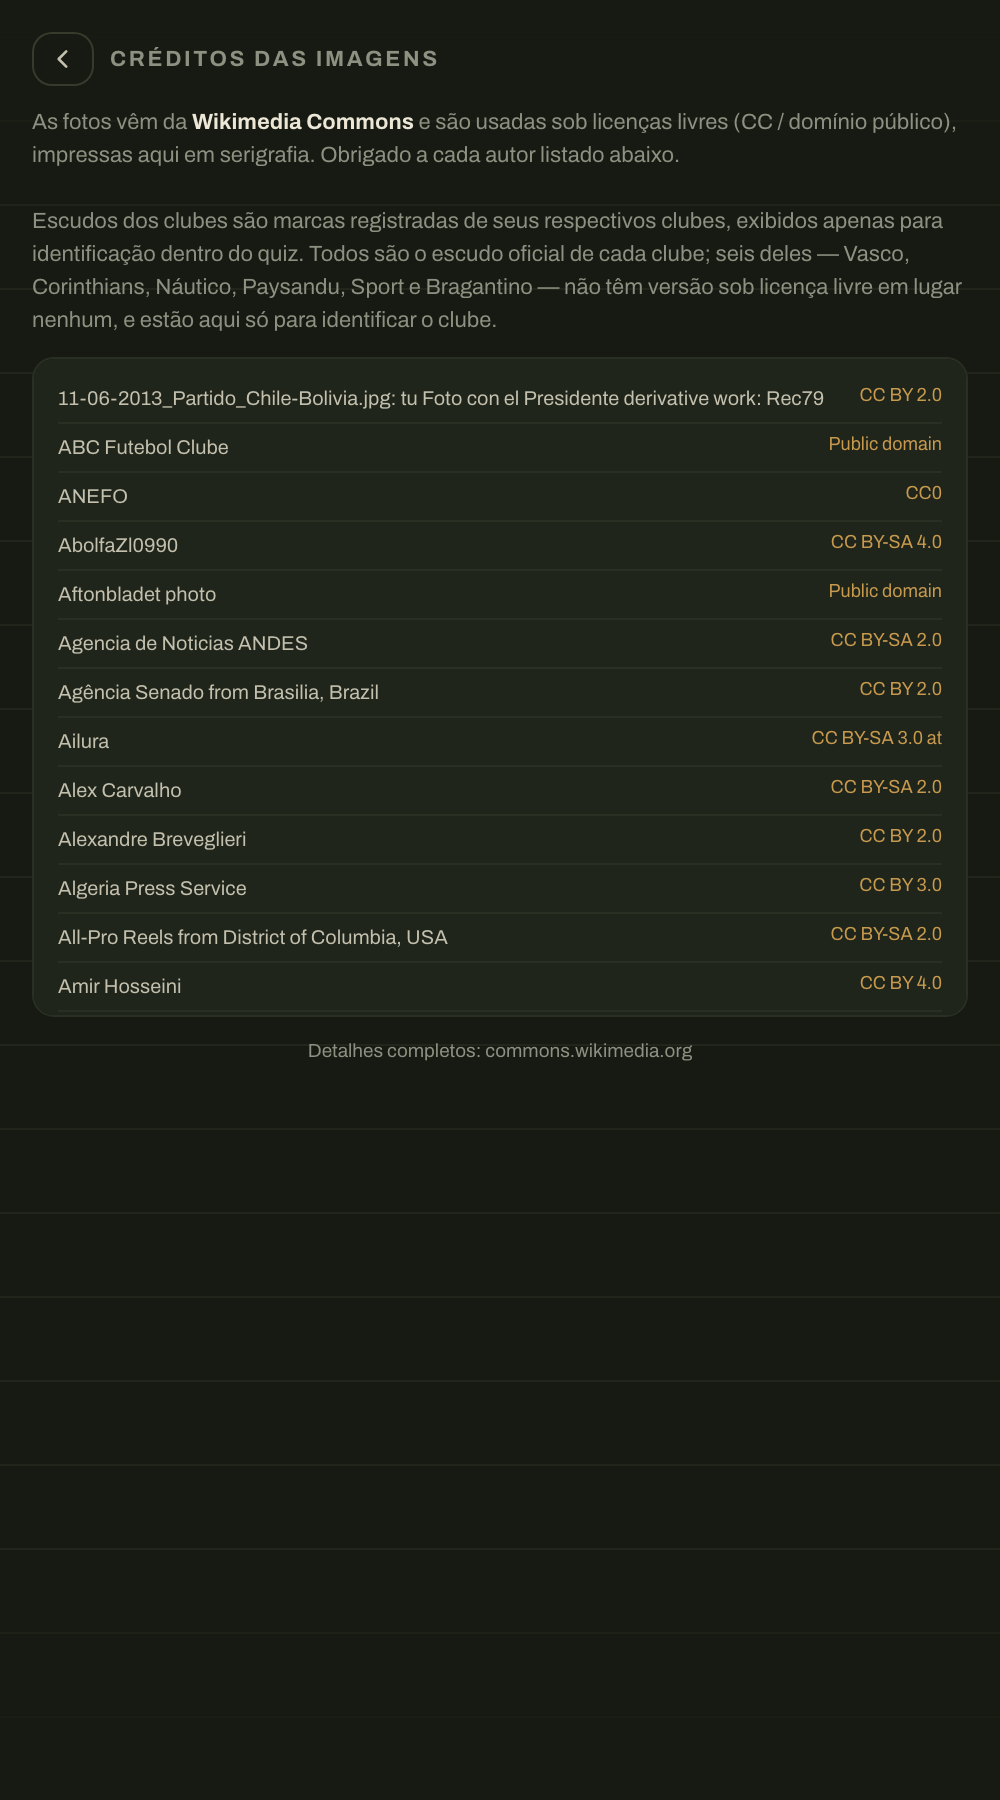
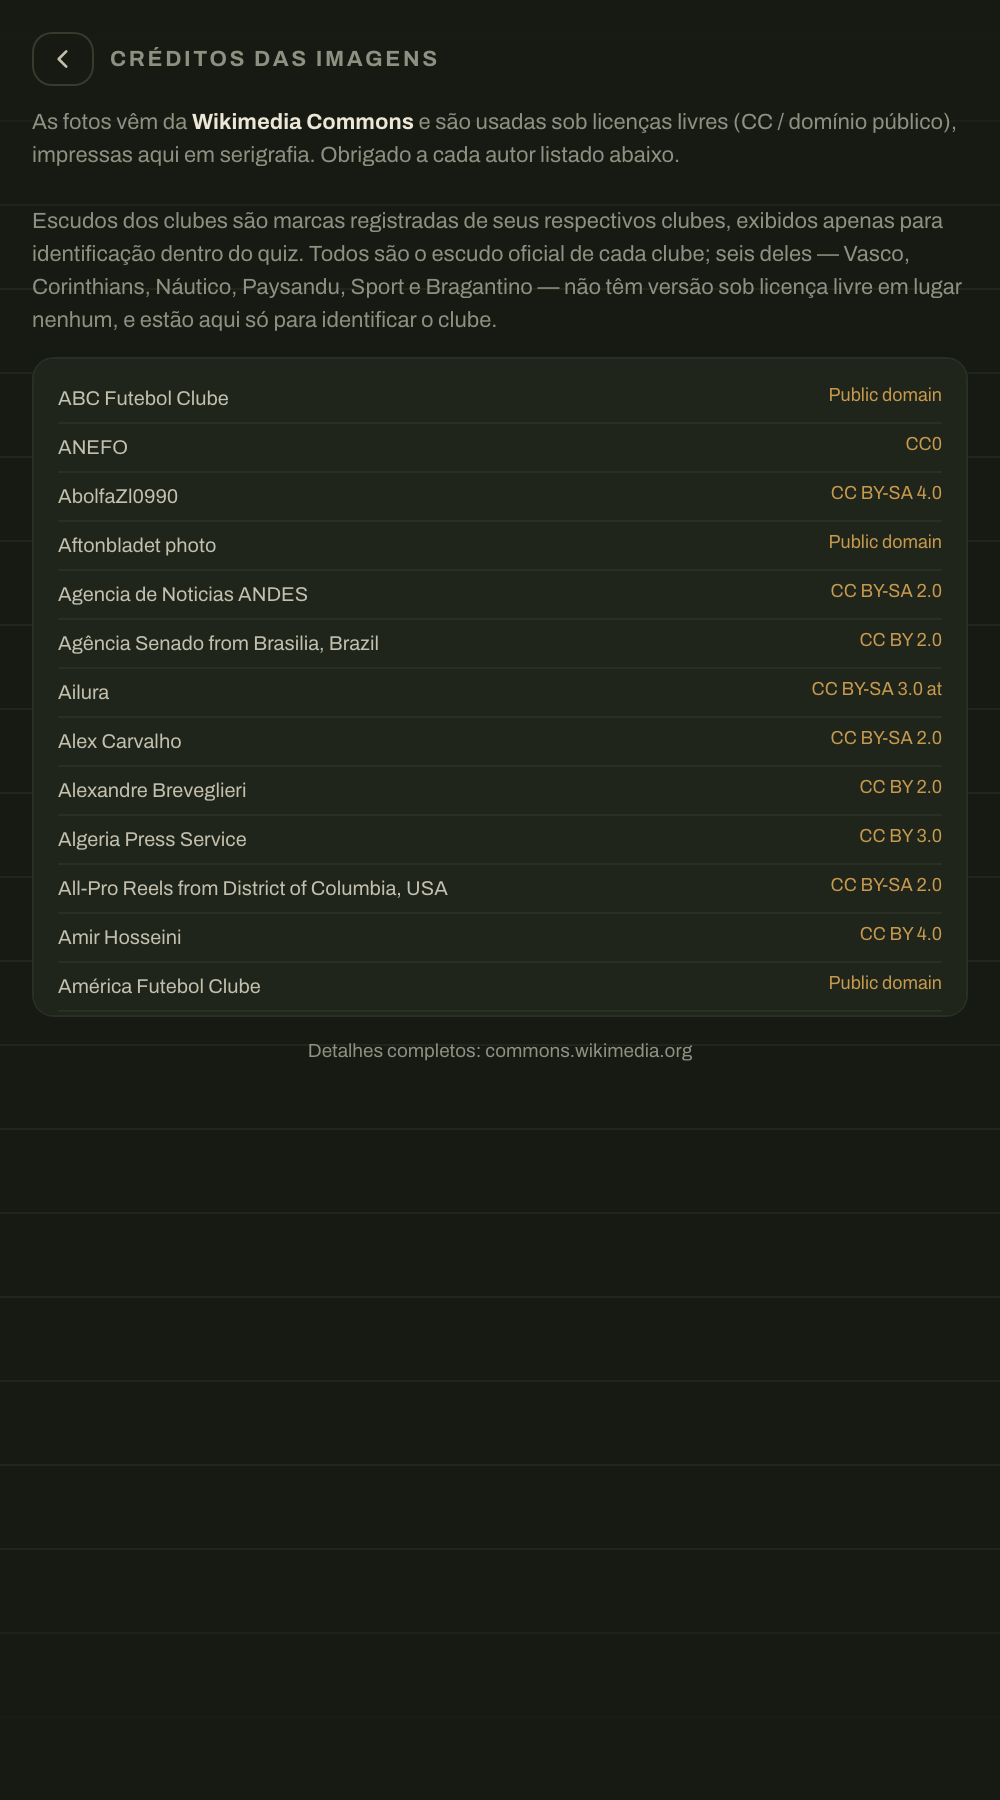
Tidy the credits so it reads as a list of people
Wikimedia's Artist field carries whatever the uploader typed, and 39 of
the 308 rows were not names: raw derivative-work chains
("Pelé_en_La_Moneda.jpg: tu Foto con el Presidente derivative work:
Rec79"), the doubled "Unknown authorUnknown author" placeholder, and
archive citations with the shelf-mark attached.

They are normalised now — "X / Y" for a derivative, "Autor desconhecido"
for the placeholder, the institution kept and the shelf-mark dropped.
Nothing is removed: every author who was credited is still credited, in a
form a reader can actually act on. index.html and data/credits.json stay
in step.

Claude-Session: https://claude.ai/code/session_01AeDN92YGYdCLcJmAVMuuVY

diff --git a/index.html b/index.html
@@ -2972,7 +2972,7 @@ const CREDITS = {
   'img/74376336e55dce35.jpg': { a:'Bryan Berlin', l:'CC BY-SA 4.0' },
   'img/8913cf3c11ef1543.jpg': { a:'RicardoGuedesP', l:'CC BY-SA 4.0' },
   'img/ab830b343129eab8.jpg': { a:'Cláudio Ptolomeu', l:'CC0' },
-  'img/510728faf6f3403c.jpg': { a:'Original: Werner100359 / Derivative work: Danyele', l:'CC BY-SA 4.0' },
+  'img/510728faf6f3403c.jpg': { a:'Werner100359 / / Danyele', l:'CC BY-SA 4.0' },
   'img/04d0915057394a2d.jpg': { a:'Multishow', l:'CC BY 4.0' },
   'img/a2550621b4d2069f.jpg': { a:'Krone Sport', l:'CC BY 3.0' },
   'img/05e97d13cedb6d4d.jpg': { a:'YantsImages', l:'CC BY-SA 4.0' },
@@ -3000,12 +3000,12 @@ const CREDITS = {
   'img/3003f941ce111ded.jpg': { a:'Agencia de Noticias ANDES', l:'CC BY-SA 2.0' },
   'img/58950ff0afd5d95b.jpg': { a:'Longbomb', l:'Public domain' },
   'img/91a4fe6ff67ac4e2.jpg': { a:'Aftonbladet photo', l:'Public domain' },
-  'img/15085c4eb23cdf4f.jpg': { a:'Unknown authorUnknown author', l:'Public domain' },
+  'img/15085c4eb23cdf4f.jpg': { a:'Autor desconhecido', l:'Public domain' },
   'img/c33fd612ea21fbe1.jpg': { a:'Panini', l:'Public domain' },
-  'img/c1eeb576e2f6a7d6.jpg': { a:'Unknown authorUnknown author', l:'Public domain' },
+  'img/c1eeb576e2f6a7d6.jpg': { a:'Autor desconhecido', l:'Public domain' },
   /* retratos das páginas antigas */
   'img/54b6ca0aec7b9579.jpg': { a:'Christophe95', l:'CC BY-SA 3.0' },
-  'img/162ebbd1b7ce35a2.jpg': { a:'Unknown authorUnknown author', l:'Public domain' },
+  'img/162ebbd1b7ce35a2.jpg': { a:'Autor desconhecido', l:'Public domain' },
   'img/1269aa2261eb5d2f.jpg': { a:'Panini', l:'Public domain' },
   'img/8234d8678f486ad6.jpg': { a:'Christophe95', l:'CC BY-SA 3.0' },
   'img/628dbf281163c65a.jpg': { a:'UnknownUnknown', l:'Public domain' },
@@ -3013,25 +3013,25 @@ const CREDITS = {
   'img/c4b7e5e76f94e2cc.jpg': { a:'Bert Verhoeff for Anefo , NL-HaNA, ANEFO / neg. stroken, 1945-1989', l:'CC0' },
   'img/2c733543b972744a.jpg': { a:'Илья Хохлов', l:'CC BY-SA 3.0' },
   'img/883b6264f6ff5188.jpg': { a:'Roger Gor', l:'CC BY 3.0' },
-  'img/73fcbf1ced010652.jpg': { a:'Unknown authorUnknown author', l:'Public domain' },
+  'img/73fcbf1ced010652.jpg': { a:'Autor desconhecido', l:'Public domain' },
   'img/4fe96f928a31738f.jpg': { a:'utente:Lucio8990', l:'Public domain' },
   'img/cea4d8233587db89.jpg': { a:'Tales.ebner', l:'Public domain' },
   'img/c4db925adc8f3bd8.jpg': { a:'Prensa TV Pública', l:'CC BY 2.0' },
   'img/c6a6975ab66f934b.jpg': { a:'Palácio do Planalto from Brasilia, Brasil', l:'CC BY 2.0' },
-  'img/62b43f2e15939e95.jpg': { a:'Unknown authorUnknown author', l:'Public domain' },
-  'img/98e30327cff2b74f.jpg': { a:'Unknown authorUnknown author', l:'Public domain' },
+  'img/62b43f2e15939e95.jpg': { a:'Autor desconhecido', l:'Public domain' },
+  'img/98e30327cff2b74f.jpg': { a:'Autor desconhecido', l:'Public domain' },
   'img/d245562ac7455ba9.jpg': { a:'Saw from Singapore', l:'CC BY-SA 2.0' },
   'img/9b1a8681cfb39b14.jpg': { a:'Elena Rybakova', l:'CC BY-SA 3.0' },
-  'img/f7e3042a0214f4db.jpg': { a:'Eric Koch for Anefo Nationaal Archief, Den Haag, Rijksfotoarchief: Fotocollectie Algemeen Nederlands Fotopersbureau (ANEFO), 1945-1989 - negatiefstroken zwart/wit, nummer toegang 2.24.01.05, bestanddeelnummer 923-4328', l:'CC BY-SA 3.0 nl' },
+  'img/f7e3042a0214f4db.jpg': { a:'Eric Koch for Anefo Nationaal Archief, Den Haag', l:'CC BY-SA 3.0 nl' },
   'img/1eef9a90a6df5b58.jpg': { a:'Fabio Rodrigues Pozzebom', l:'CC BY 3.0 br' },
   'img/39aa5ba33c1a180b.jpg': { a:'Unspecified', l:'Public domain' },
   'img/86ae5d35eb96929e.jpg': { a:'Galo Na Veia from Brasil', l:'Public domain' },
-  'img/56611cbacf2d57d9.jpg': { a:'Unknown authorUnknown author', l:'Public domain' },
-  'img/d72738fbc933d877.jpg': { a:'Pelé_en_La_Moneda.jpg: tu Foto con el Presidente derivative work: Rec79 (talk)', l:'CC BY 2.0' },
+  'img/56611cbacf2d57d9.jpg': { a:'Autor desconhecido', l:'Public domain' },
+  'img/d72738fbc933d877.jpg': { a:'tu Foto con el Presidente / Rec79', l:'CC BY 2.0' },
   'img/f66954b520e42c01.jpg': { a:'Christophe95', l:'CC BY-SA 3.0' },
   'img/caf2e500509e3d5e.jpg': { a:'Magnussen, Friedrich (1914-1987)', l:'CC BY-SA 3.0 de' },
-  'img/aeb72fb932be5a0d.jpg': { a:'Unknown authorUnknown author', l:'CC BY-SA 3.0 nl' },
-  'img/f8e326cd2856d08e.jpg': { a:'Unknown authorUnknown author', l:'Public domain' },
+  'img/aeb72fb932be5a0d.jpg': { a:'Autor desconhecido', l:'CC BY-SA 3.0 nl' },
+  'img/f8e326cd2856d08e.jpg': { a:'Autor desconhecido', l:'Public domain' },
   'img/bb57a46b0718c4e0.jpg': { a:'Jack de Nijs for Anefo / Anefo', l:'CC BY-SA 3.0 nl' },
   'img/791371b847f2baf4.jpg': { a:'Barcex', l:'CC BY-SA 4.0' },
   'img/359bf2910777290e.jpg': { a:'Nuță Lucian from Cluj-Napoca, Romania', l:'CC BY-SA 2.0' },
@@ -3040,19 +3040,19 @@ const CREDITS = {
   'img/1e330c509141eea9.jpg': { a:'Isolinamajul', l:'Public domain' },
   'img/c8d47a3e591d0cfa.jpg': { a:'Republic of Korea', l:'CC BY-SA 2.0' },
   'img/93d9b1811058ec08.jpg': { a:'Christophe95', l:'CC BY-SA 3.0' },
-  'img/a088e1694438876c.jpg': { a:'Unknown authorUnknown author', l:'Public domain' },
-  'img/585091556671d2a0.jpg': { a:'Original: Chensiyuan / Derivative work: Danyele', l:'CC BY-SA 4.0' },
+  'img/a088e1694438876c.jpg': { a:'Autor desconhecido', l:'Public domain' },
+  'img/585091556671d2a0.jpg': { a:'Chensiyuan / / Danyele', l:'CC BY-SA 4.0' },
   'img/a417217bfbfc836c.jpg': { a:'Irish Defence Forces from Ireland', l:'CC BY 2.0' },
   'img/a6723e968a030759.jpg': { a:'Bryan Berlin', l:'CC BY-SA 4.0' },
   'img/7a0f065590a5d112.jpg': { a:'Fortepan/Faragó György', l:'CC BY-SA 3.0' },
-  'img/32b5426eefa28318.jpg': { a:'Unknown authorUnknown author', l:'Public domain' },
+  'img/32b5426eefa28318.jpg': { a:'Autor desconhecido', l:'Public domain' },
   'img/f7f34ea069436dc1.jpg': { a:'Christophe95', l:'CC BY-SA 3.0' },
-  'img/e213bc3d3c947529.jpg': { a:'Nationaal Archief, Den Haag, Rijksfotoarchief: Fotocollectie Algemeen Nederlands Fotopersbureau (ANEFO), 1945-1989 - negatiefstroken zwart/wit, nummer toegang 2.24.01.05, bestanddeelnummer 906-0012', l:'CC BY-SA 3.0 nl' },
+  'img/e213bc3d3c947529.jpg': { a:'Nationaal Archief, Den Haag', l:'CC BY-SA 3.0 nl' },
   'img/136f515c1037e98b.jpg': { a:'Rob Bogaerts for Anefo', l:'CC0' },
   'img/bb36f5000c3f46c5.jpg': { a:'Danny Molyneux', l:'CC BY 2.0' },
-  'img/329d1f766658da65.jpg': { a:'Unknown authorUnknown author', l:'Public domain' },
+  'img/329d1f766658da65.jpg': { a:'Autor desconhecido', l:'Public domain' },
   'img/7d25dd8bdc2738f5.jpg': { a:'Unknown photographer', l:'Public domain' },
-  'img/4ecd9957b82a2a73.jpg': { a:'Unknown authorUnknown author', l:'Public domain' },
+  'img/4ecd9957b82a2a73.jpg': { a:'Autor desconhecido', l:'Public domain' },
   'img/5c405fe41d0795af.jpg': { a:'Algeria Press Service', l:'CC BY 3.0' },
   'img/2b4e45b260f827fc.jpg': { a:'Bryan Berlin', l:'CC BY-SA 4.0' },
   'img/b024ff25a51be288.jpg': { a:'Rainer Mittelstädt', l:'CC BY-SA 3.0 de' },
@@ -3060,36 +3060,36 @@ const CREDITS = {
   'img/59e0f3ddd8922b91.jpg': { a:'Steffen Prößdorf', l:'CC BY-SA 4.0' },
   'img/4f96eecd9e14984a.jpg': { a:'Edizioni Astra, Milano (chiusura 1986)', l:'Public domain' },
   'img/f83d090546ab384b.jpg': { a:'Refivagert', l:'CC BY-SA 4.0' },
-  'img/4f1c478f5174a790.jpg': { a:'Unknown authorUnknown author', l:'Public domain' },
+  'img/4f1c478f5174a790.jpg': { a:'Autor desconhecido', l:'Public domain' },
   'img/91b807bba0869302.jpg': { a:'Jmex60', l:'CC BY-SA 3.0' },
-  'img/fede689e7ef6e837.jpg': { a:'Unknown authorUnknown author', l:'Public domain' },
+  'img/fede689e7ef6e837.jpg': { a:'Autor desconhecido', l:'Public domain' },
   'img/7c19b6d3c4b0cc13.jpg': { a:'norio nakayama', l:'CC BY-SA 2.0' },
-  'img/1a9a0996e8a52fd5.jpg': { a:'Unknown authorUnknown author', l:'Public domain' },
-  'img/cf80ccb7934c30ad.jpg': { a:'Unknown authorUnknown author', l:'Public domain' },
+  'img/1a9a0996e8a52fd5.jpg': { a:'Autor desconhecido', l:'Public domain' },
+  'img/cf80ccb7934c30ad.jpg': { a:'Autor desconhecido', l:'Public domain' },
   'img/5c83259d8ad8b222.jpg': { a:'Кирилл Венедиктов', l:'CC BY-SA 3.0' },
   'img/9bfa6fcfb1422bf3.jpg': { a:'David Sedlecký', l:'CC BY-SA 4.0' },
-  'img/bc4bb3d6981c73e4.jpg': { a:'Unknown authorUnknown author', l:'Public domain' },
+  'img/bc4bb3d6981c73e4.jpg': { a:'Autor desconhecido', l:'Public domain' },
   'img/ffdab5ca8b178355.jpg': { a:'Fabio Rodrigues Pozzebom', l:'CC BY 3.0 br' },
-  'img/aae32645774db989.jpg': { a:'Rai_em_2009.jpg: Elza Fiúza/ABr derivative work: Yanguas', l:'CC BY 3.0 br' },
+  'img/aae32645774db989.jpg': { a:'Elza Fiúza/ABr / Yanguas', l:'CC BY 3.0 br' },
   'img/23d6fd9b566223d9.jpg': { a:'Galo Na Veia from Brasil', l:'Public domain' },
   'img/cff16530f8fa4e0f.jpg': { a:'TVE RS / TV Grenal', l:'CC BY-SA 4.0' },
-  'img/9d580a4365114dcd.jpg': { a:'Hans Peters for Anefo , Nationaal Archief, Den Haag, Rijksfotoarchief: Fotocollectie Algemeen Nederlands Fotopersbureau (ANEFO), 1945-1989 - negatiefstroken zwart/wit, nummer toegang 2.24.01.06, bestanddeelnummer 253-8025', l:'CC0' },
+  'img/9d580a4365114dcd.jpg': { a:'Hans Peters for Anefo , Nationaal Archief, Den Haag', l:'CC0' },
   'img/891afdd0cd344afe.jpg': { a:'NASA', l:'Public domain' },
   'img/91695b91ca28ecd3.jpg': { a:'Italian House of Representatives', l:'CC BY-SA 3.0' },
   'img/aded84a7f9b4750b.jpg': { a:'The original uploader was Snake90 at Italian Wikipedia.', l:'Public domain' },
   'img/e8890f43a185d1f2.jpg': { a:'Michael Lucan', l:'CC BY-SA 3.0 de' },
   'img/c793c44643d6d9fe.jpg': { a:'The original uploader was Freddyballo at Italian Wikipedia.', l:'Public domain' },
-  'img/75dbccb8faa7b800.jpg': { a:'Unknown authorUnknown author', l:'Public domain' },
+  'img/75dbccb8faa7b800.jpg': { a:'Autor desconhecido', l:'Public domain' },
   'img/d6a883cf7fbaef12.jpg': { a:'Joop van Bilsen for Anefo', l:'CC0' },
   'img/eeb9d84ba15b1447.jpg': { a:'El Gráfico', l:'Public domain' },
   'img/e1672ea777d20d55.jpg': { a:'Ujishadow', l:'CC BY-SA 4.0' },
   'img/69bdb9f9781c2e8c.jpg': { a:'Biser Todorov', l:'CC BY-SA 4.0' },
   'img/ccf5e2c28ed6f8de.jpg': { a:'Panini', l:'Public domain' },
-  'img/4050315cc5e986c9.jpg': { a:'11-06-2013_Partido_Chile-Bolivia.jpg: tu Foto con el Presidente derivative work: Rec79', l:'CC BY 2.0' },
+  'img/4050315cc5e986c9.jpg': { a:'tu Foto con el Presidente / Rec79', l:'CC BY 2.0' },
   'img/a12a14aa3c264ada.jpg': { a:'Tales.ebner', l:'Public domain' },
   'img/091a01b09299c029.jpg': { a:'Fabio Rodrigues Pozzebom/ABr', l:'CC BY 3.0 br' },
   'img/9beee8ccd909f0cd.jpg': { a:'UnknownUnknown', l:'Public domain' },
-  'img/63c96cd919447054.jpg': { a:'Original: Unknown authorUnknown author / Derivative work: Heiko Gerber', l:'Public domain' },
+  'img/63c96cd919447054.jpg': { a:'Autor desconhecido / Heiko Gerber', l:'Public domain' },
   /* club escudos — the official mark of each club */
   'img/d3486656bf2a6e20.png': { a:'ABC Futebol Clube', l:'Public domain' },
   'img/c848da0ca86caa2b.png': { a:'América Futebol Clube', l:'Public domain' },
@@ -3149,14 +3149,14 @@ const CREDITS = {
   'img/161e26d90ff643d1.jpg': { a:'https://www.youtube.com/@realmadrid', l:'CC BY 3.0' },
   'img/174077928ee92afd.jpg': { a:'Rob Mieremet / Anefo', l:'CC0' },
   'img/18923a812a393569.jpg': { a:'Panini', l:'Public domain' },
-  'img/1942386e409ddbbc.jpg': { a:'Unknown authorUnknown author', l:'Public domain' },
-  'img/1a7d080f967ddb0a.jpg': { a:'Unknown authorUnknown author', l:'Public domain' },
+  'img/1942386e409ddbbc.jpg': { a:'Autor desconhecido', l:'Public domain' },
+  'img/1a7d080f967ddb0a.jpg': { a:'Autor desconhecido', l:'Public domain' },
   'img/1a890e79166cbd6b.jpg': { a:'Segue o baile', l:'CC BY 3.0' },
   'img/1dcca609790e222f.jpg': { a:'Вячеслав Евдокимов', l:'CC BY-SA 3.0' },
   'img/1e59746f3b5a8618.png': { a:'History Channel', l:'CC0' },
   'img/1ed00c1d3b7c89d2.jpg': { a:'José Cruz/A Br', l:'CC BY 3.0 br' },
   'img/1ef3bb0fbdbf78f7.jpg': { a:'Clément Bucco-Lechat', l:'CC BY-SA 3.0' },
-  'img/201fa8e5460c7212.jpg': { a:'Unknown authorUnknown author', l:'Public domain' },
+  'img/201fa8e5460c7212.jpg': { a:'Autor desconhecido', l:'Public domain' },
   'img/264a56ec578e4950.jpg': { a:'Christophe95', l:'CC BY-SA 3.0' },
   'img/29e4bf594fcd70df.jpg': { a:'Arne Müseler', l:'CC BY-SA 3.0 de' },
   'img/2ab41e623ca93fd8.jpg': { a:'Chancellery of the President of the Republic of Poland', l:'GFDL 1.2' },
@@ -3169,7 +3169,7 @@ const CREDITS = {
   'img/3bf77b3cfa1ac83a.jpg': { a:'Эдгар Брещанов', l:'CC BY-SA 3.0' },
   'img/3c7e7132b3e8c2da.jpg': { a:'Евгений Асмолов', l:'CC BY-SA 3.0' },
   'img/3d2301f72881532f.jpg': { a:'Marcello Casal Jr/ABr', l:'CC BY 3.0 br' },
-  'img/3e42a2c3cad24abd.jpg': { a:'Unknown authorUnknown author', l:'Public domain' },
+  'img/3e42a2c3cad24abd.jpg': { a:'Autor desconhecido', l:'Public domain' },
   'img/4315f16ceb61883f.jpg': { a:'Ricardosoruco', l:'CC BY-SA 3.0' },
   'img/45beff756309566b.jpg': { a:'Barcex', l:'CC BY-SA 4.0' },
   'img/491fb1154f03a925.jpg': { a:'International Federation of Football History and Statistics', l:'Public domain' },
@@ -3177,7 +3177,7 @@ const CREDITS = {
   'img/4a0342f90a220ca9.jpg': { a:'Helfer Emilio', l:'CC0' },
   'img/4ac976b184cc63fc.jpg': { a:'مقداد مددی', l:'CC BY 4.0' },
   'img/4ae52a3f1231575e.jpg': { a:'ANEFO', l:'CC0' },
-  'img/4ef8747be0d6505e.jpg': { a:'Unknown authorUnknown author', l:'Public domain' },
+  'img/4ef8747be0d6505e.jpg': { a:'Autor desconhecido', l:'Public domain' },
   'img/516c48659ff0cdb0.jpg': { a:'Arthur Miranda', l:'CC0' },
   'img/51fdbdc7c90eb840.jpg': { a:'Panini Group', l:'Public domain' },
   'img/52657817692601d7.jpg': { a:'Wim van Rossem for Anefo', l:'CC0' },
@@ -3187,7 +3187,7 @@ const CREDITS = {
   'img/618d79848fbbec21.jpg': { a:'Carlsberg', l:'CC BY 3.0' },
   'img/666048b495ae1438.jpg': { a:'Web Summit', l:'CC BY 2.0' },
   'img/66a6d28f83b53839.jpg': { a:'Wilson Dias/ABr', l:'CC BY 3.0 br' },
-  'img/67fda0a92c0c4dde.jpg': { a:'Sergio Savarese from Sao Paulo City  /  Ipiranga, Brasil', l:'CC BY-SA 2.0' },
+  'img/67fda0a92c0c4dde.jpg': { a:'Sergio Savarese from Sao Paulo City / Ipiranga, Brasil', l:'CC BY-SA 2.0' },
   'img/6a816865c94e5bd3.png': { a:'NullReason', l:'CC BY-SA 3.0' },
   'img/6b52ccf84346c214.jpg': { a:'AbolfaZl0990', l:'CC BY-SA 4.0' },
   'img/6c5cbdbd0210e78e.jpg': { a:'Fotografías Archimadrid.es', l:'CC BY 2.0' },
@@ -3205,7 +3205,7 @@ const CREDITS = {
   'img/8009d0c8ca776192.jpg': { a:'Júnior Faria/flickr', l:'CC BY-SA 2.0' },
   'img/81c06667fa16b652.jpg': { a:'Bryan Berlin', l:'CC BY-SA 4.0' },
   'img/82d5307026607b2a.jpg': { a:'Ailura', l:'CC BY-SA 3.0 at' },
-  'img/83a240d4788163b3.jpg': { a:'Unknown authorUnknown author', l:'Public domain' },
+  'img/83a240d4788163b3.jpg': { a:'Autor desconhecido', l:'Public domain' },
   'img/8595a6ca0651c6c5.jpg': { a:'Elena Ternovaja', l:'CC BY-SA 3.0' },
   'img/87ed4227f19deced.jpg': { a:'James Adams', l:'CC BY 2.0' },
   'img/88468c09c32948e3.jpg': { a:'Palácio do Planalto from Brasilia, Brasil', l:'CC BY 2.0' },
@@ -3218,7 +3218,7 @@ const CREDITS = {
   'img/97883ef7e09ebbd6.jpg': { a:'United States Department of State Africa U.S.-Africa Leaders Summit: Photos and Videos', l:'Public domain' },
   'img/9857fb0acb22e8ef.jpg': { a:'Laura Cortizo/Portal da Copa', l:'CC BY 3.0 br' },
   'img/9d3579f7683545f1.jpg': { a:'Bernardo1989', l:'CC BY-SA 4.0' },
-  'img/9d91c1374cf5c69b.jpg': { a:'Sergio Savarese from Sao Paulo City  /  Ipiranga, Brasil', l:'CC BY-SA 2.0' },
+  'img/9d91c1374cf5c69b.jpg': { a:'Sergio Savarese from Sao Paulo City / Ipiranga, Brasil', l:'CC BY-SA 2.0' },
   'img/9fdc4e925e614702.jpg': { a:'Milly barzellai', l:'CC BY-SA 4.0' },
   'img/a49cd1072ac4f08a.jpg': { a:'Bryan Berlin', l:'CC BY-SA 4.0' },
   'img/a4a135f81bbd912b.jpg': { a:'Bryan Berlin', l:'CC BY-SA 4.0' },
@@ -3247,18 +3247,18 @@ const CREDITS = {
   'img/c9b175338e538436.jpg': { a:'Žan Kolman', l:'Public domain' },
   'img/ca38a5d8fb15d1d3.jpg': { a:'Zack', l:'CC BY 4.0' },
   'img/ce2fa1c8f787f96d.jpg': { a:'Web Summit', l:'CC BY 2.0' },
-  'img/cec165242fdd66eb.jpg': { a:'Unknown authorUnknown author', l:'Public domain' },
+  'img/cec165242fdd66eb.jpg': { a:'Autor desconhecido', l:'Public domain' },
   'img/d024d7b6a9840505.jpg': { a:'Soccer Aid for Unicef', l:'CC BY 3.0' },
   'img/d042f2b35b5efade.jpg': { a:'David Seow', l:'CC BY-SA 4.0' },
   'img/d1eb64abf64a7ecc.jpg': { a:'Кирилл Венедиктов', l:'CC BY-SA 3.0' },
   'img/d2c6410686305d9c.jpg': { a:'Hadi Abyar', l:'CC BY 4.0' },
   'img/d3048d0dcd6295ea.jpg': { a:'All-Pro Reels from District of Columbia, USA', l:'CC BY-SA 2.0' },
-  'img/d609af6f47604b15.jpg': { a:'Unknown authorUnknown author', l:'Public domain' },
+  'img/d609af6f47604b15.jpg': { a:'Autor desconhecido', l:'Public domain' },
   'img/dffa17aea5fe72c7.jpg': { a:'Marcos Corrêa/PR', l:'CC BY 2.0' },
   'img/e24f17b1a1c19a47.jpg': { a:'Biser Todorov', l:'CC BY-SA 4.0' },
   'img/e2ec3359b334126a.jpg': { a:'Bryan Berlin', l:'CC BY-SA 4.0' },
   'img/e2ed77c74290729e.jpg': { a:'BrazilianDude70', l:'CC BY-SA 4.0' },
-  'img/e4338b3611dcdec3.jpg': { a:'Unknown authorUnknown author', l:'Public domain' },
+  'img/e4338b3611dcdec3.jpg': { a:'Autor desconhecido', l:'Public domain' },
   'img/e4bbfb4842eaf994.png': { a:'Кирилл Венедиктов', l:'CC BY-SA 3.0' },
   'img/e89e123d5b748a6e.jpg': { a:'Rufus46', l:'CC BY-SA 3.0' },
   'img/e8ed7b9d7bfb0269.jpg': { a:'Panini', l:'Public domain' },
